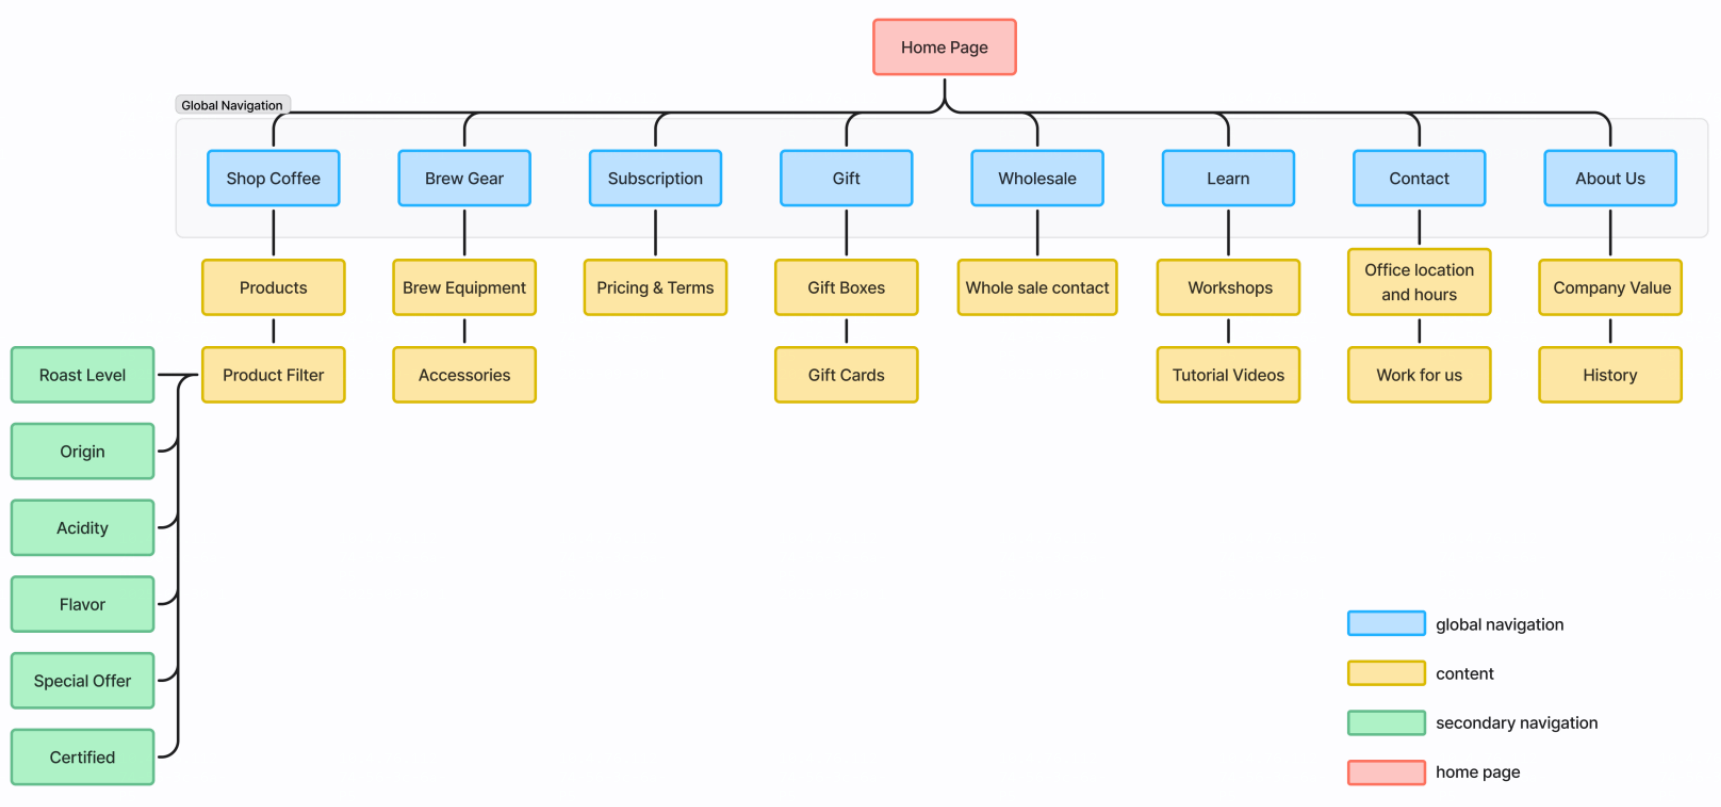
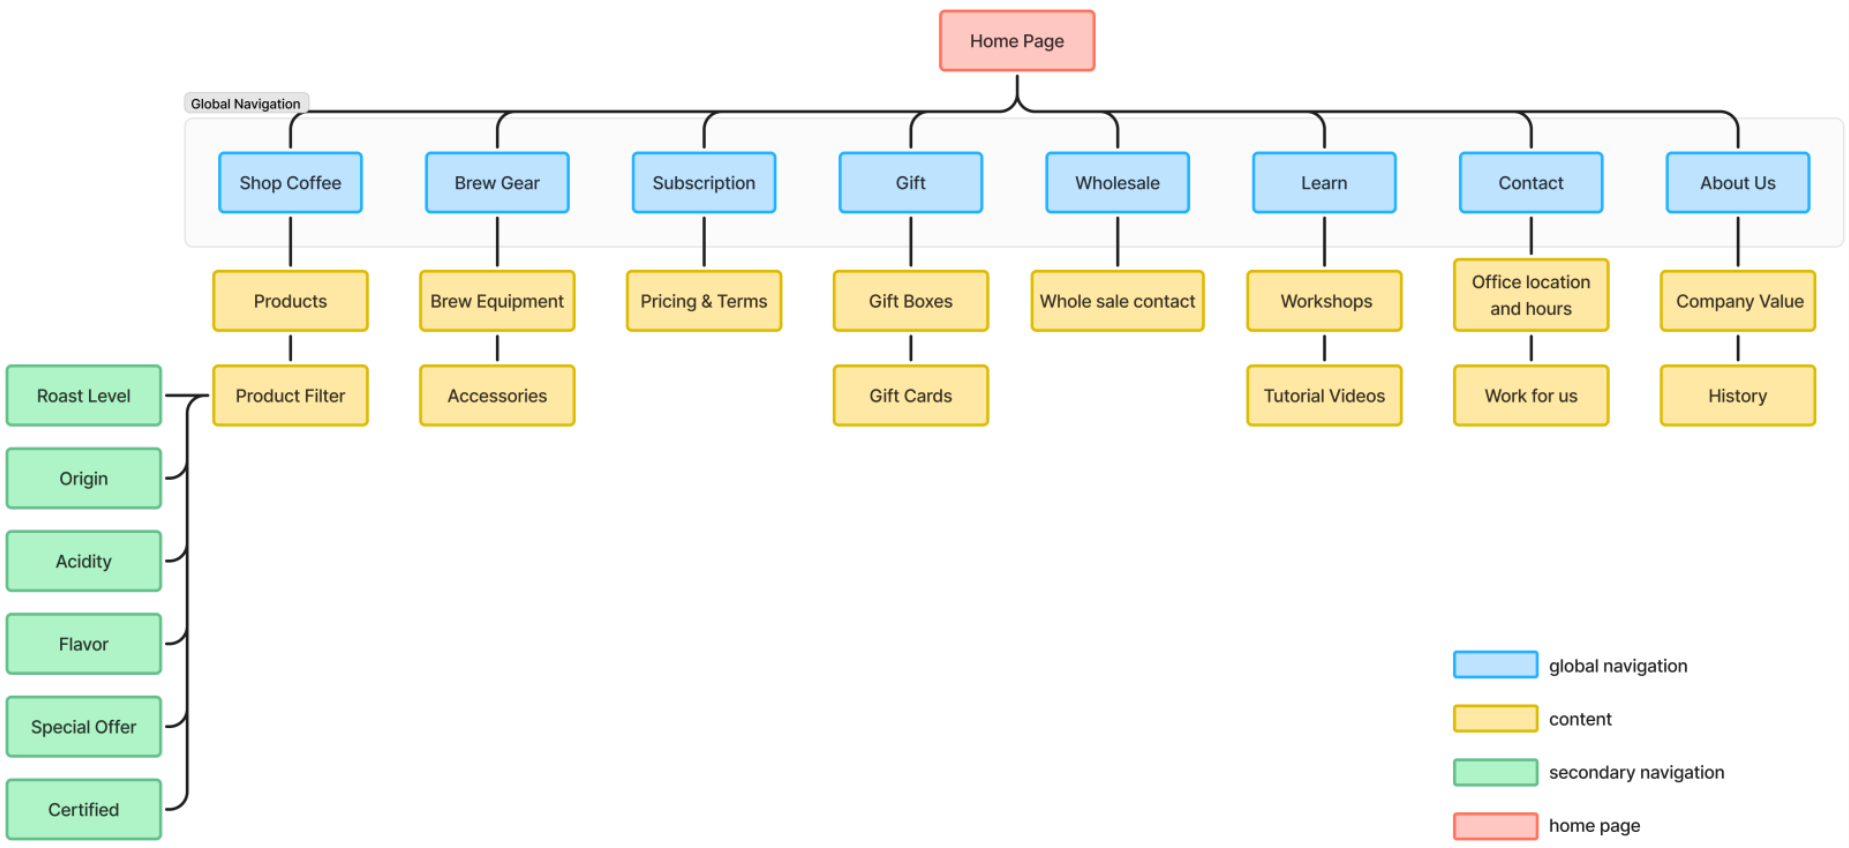
coffee done v.1.0.0

diff --git a/ux-coffeeshop.html b/ux-coffeeshop.html
@@ -3,7 +3,7 @@
 <head>
     <meta charset="UTF-8">
     <meta name="viewport" content="width=device-width, initial-scale=1.0">
-    <title>Coffee Shop IA Analysis</title>
+    <title>Coffee E-commerce Site IA Research & Usability Enhancement</title>
     <link rel="stylesheet" href="style.css">
     <link rel="preconnect" href="https://fonts.googleapis.com">
     <link rel="preconnect" href="https://fonts.gstatic.com" crossorigin>
@@ -26,8 +26,8 @@
     </header>
 
     <section class="portfolio-header" style="padding: 8rem 1.5rem 3rem">
-        <h1>Online Coffee Shop Website IA</h1>
-        <p>UX Research Project - Coffee Shop UX Best Practices Analysis</p>
+        <h1>IA Research & Usability Enhancement</h1>
+        <p>UX Research Project - Coffee E-commerce Site UX Best Practices</p>
     </section>
 
    <!-- Case Study Content -->
@@ -55,7 +55,7 @@
                 <h2 class="section-title-2">Quick Summary</h2>
                 </div>
                     <div style="flex: 1; margin-left: 2rem;">
-                        <p>This project showcases the design of the Information Architecture (IA) and a low-fidelity prototype for an online coffee shop.</p>
+                        <p>This project showcases the research and design of the Information Architecture (IA) for an online coffee shop and developed two wireframe concepts using the insights from the research.</p>
                         <p><br>The process began with a competitive analysis of existing coffee e-commerce sites to identify common design patterns and user expectations. I then conducted card sorting studies to inform the navigation, translating user mental models into a clear site structure.</p>
                         <p><br>Based on these insights into customer needs and preferences, I developed two wireframe concepts representing different navigation approaches. These concepts served as a foundation for a potential A/B test, with the feedback from both providing complementary insights.</p>
                         <p><br>The final deliverable is a user-centric, accessible website structure that enhances the customer experience for browsing coffee and related products. The project concludes with a detailed design rationale justifying all strategic IA and prototyping choices.</p>
@@ -130,6 +130,93 @@
     </div>
 
 
+    <div class="case-study-container">
+        <section class="horizontal-section" style="margin-top: 60px;">
+            <div class="content-wrapper" style="max-width: 25%;">
+                <h2 class="section-title-2">Website Schematic Redesign</h2>
+                </div>
+                    <div style="flex: 1; margin-left: 2rem;">
+                        <h3>Design Goals</h3>
+                        <p>Global >> Service driven specified global navigation</p>
+                        <p>Secondary >> Simplified product filter</p>
+                        <div class ="image-container">
+                            <img src="image/coffee/schemetics.png" alt="schemetics">
+                        </div>
+                        <h3 style="padding-top: 3rem;">Global Navigation</h3>
+                        <p>In designing the Global Navigation, I adopted a user-centric approach based on research findings to align with coffee buyers' priorities. Key and distinct services (e.g., subscriptions, wholesale) were separated into dedicated top-level navigation items to ensure precise and immediate user access.</p>
+                        <h3 style="padding-top: 3rem;">Secondary Navigation</h3>
+                        <p>For Secondary Navigation (specifically product filters), I prioritized a simplified structure. The open card sort revealed that items requiring specific coffee knowledge (like flavor notes) were grouped inconsistently. To address this challenge and maximize accessibility, I streamlined the filters to focus on universally understood attributes like roast level, flavor, and origin. Niche filters, such as preferred brew methods, were initially excluded. This decision effectively balances functionality with simplicity, making product discovery easier for both experienced and novice coffee buyers.</p>
+                    </div>
+                </div>
+            </div>
+        </section>
+    </div>
+
+    <div class="case-study-container">
+        <section class="horizontal-section" style="margin-top: 60px;">
+            <div class="content-wrapper" style="max-width: 25%;">
+                <h2 class="section-title-2">Wireframe</h2>
+                </div>
+                    <div style="flex: 1; margin-left: 2rem;">
+                        <h3>Concept 01</h3>
+                        <p>This wireframe features an expanded Global Navigation for a highly specific and targeted experience, guiding users directly to the services they need.</p>
+                            <p><br>To enhance context awareness, the filter section uses a sticky design that remains visible while scrolling. Applied filter options are kept expanded, ensuring users can always see and easily adjust their selections without losing product context.</p>
+                        <div class ="image-container">
+                            <img src="image/coffee/wireframe01.png" alt="schemetics">
+                        </div>
+                        <h3 style="padding-top: 3rem;">Concept 02</h3>
+                        <p>This concept features a simplified Global Navigation structure, mirroring patterns observed in specific competitor websites. This alternative is included to capture complementary data and feedback, providing a necessary contrast to the expanded version during validation.</p>
+                        <p><br>The design utilizes a compact, horizontally laid-out dropdown filter interface. This approach is designed to cater to the experienced coffee buyer who does not require persistent filter visibility, thereby dedicating more screen real estate to the product grid for enhanced browsing.</p>
+                        <div class ="image-container">
+                            <img src="image/coffee/wireframe02.png" alt="schemetics">
+                        </div>
+                    </div>
+                </div>
+            </div>
+        </section>
+    </div>
+
+
+    <div class="case-study-container">
+        <section class="horizontal-section" style="margin-top: 60px;">
+            <div class="content-wrapper" style="max-width: 25%;">
+                <h2 class="section-title-2">Rationale</h2>
+                </div>
+                    <div style="flex: 1; margin-left: 2rem;">
+                        <h3>Target Users</h3>
+                        <p><br><span class="highlight-2">Concept 1: </span>Aims to accommodate a broader range of users, including those less familiar with coffee, by offering constant access to filters
+                            and detailed navigation options for more intuitive interaction.</p>
+                        <p><br><span class="highlight-2">Concept 2:</span> Targets more experienced users who are comfortable with coffee-related terms and prefer a cleaner browsing space over
+                            continuous filter visibility.</p>
+                        <h3 style="padding-top: 3rem;">Shared Design Choices</h3>
+                        <p><br><span class="highlight-2">Global Navigation: </span> A user-centric design process was considered to craft an intuitive global navigation structure. The navigation aims to guide users directly to specific products or services, reflecting their needs and expectations.</p>
+                        <p><br><span class="highlight-2">Hierarchical Structure: </span> A two-layer navigation system was implemented, organizing content into broad primary categories and detailed
+                            secondary categories. This structure supports efficient information retrieval while balancing breadth and depth.
+                            </p>
+                        <p><br><span class="highlight-2">Simplified Secondary Filters: </span>The organization of filter options, based on the open card sort study, ensures frequently used filters are
+                            easily accessible while avoiding overwhelming users with excessive options. </p>
+                        <p><br><span class="highlight-2">Labeling Clarity: </span>Emphasizing user-friendly, descriptive labels for both global and secondary navigation items. These labels are informed
+                            by card sorting insights, ensuring they resonate with user expectations. </p>
+                        <p><br><span class="highlight-2">Purpose-Driven Search:</span> Search functionality is product-focused, catering to users who know what they are looking for. This decision
+                            aligns with observed user behaviors and avoids complicating the experience with unrelated or overly broad search results.</p>
+
+                        <h3 style="padding-top: 3rem;">Differences</h3>
+                        <div class ="image-container">
+                            <img src="image/coffee/difference.png" alt="difference">
+                        </div>
+
+                        <h3 style="padding-top: 3rem;">Trade-offs</h3>
+                        <div class ="image-container">
+                            <img src="image/coffee/pros cons 1.png" alt="pros cons 1">
+                        </div>
+                        <div class ="image-container">
+                            <img src="image/coffee/pros cons 2.png" alt="pros cons 2">
+                        </div>
+                    </div>
+                </div>
+            </div>
+        </section>
+    </div>
     
     <!-- Contact Section -->
     <section id="contact" class="contact">

diff --git a/ux-design.html b/ux-design.html
@@ -225,6 +225,36 @@
                 </div>
             </a> -->
 
+
+             <!-- UX Research Project - Coffee E-commerce Site UX Best Practices -->
+             <a href="ux-coffeeshop.html" class="portfolio-item-link">
+                <div class="portfolio-item">
+                    <div class="portfolio-image">
+                        <img src="image/coffee/coffee-thumbnail.png" alt="coffee-thumbnail">
+                    </div>
+                    <div class="portfolio-content">
+                        <span class="project-category">UX RESEARCH</span>
+                        <h2>IA Research & Usability Enhancement for Coffee E-commerce Experience</h2>
+                        <p class="project-description">Research into the best practices of online coffee e-commerce experiences and redesigned the information architecture to optimize the user experience issues discovered in the user testing. </p>
+                        
+                        <!-- 
+                        <div class="design-impact">
+                            <div class="impact-metrics">
+                                <div class="metric-item">
+                                    <span class="index-metric-value">↑WIP</span>
+                                    <span class="metric-label">WIP</span>
+                                </div>
+                                <div class="metric-item">
+                                    <span class="index-metric-value">↑WIP</span>
+                                    <span class="metric-label">WIP</span>
+                                </div>
+                                -->
+                            </div>
+                        </div>
+                    </div>
+                </div>
+            </a>
+
         </section>
     </main>
 

diff --git a/ux-service-design.html b/ux-service-design.html
@@ -299,10 +299,11 @@
                 <p><span class="highlight-2">Outcome Map</span> - Map out the desired outcomes of all the stages and parties involved and compare to the current service experience to identify gaps. </p>
             </div>
             <div style="flex: 1; margin-left: 2rem;">
-                                     <div class="image-container" style="margin: 0rem 0;">
+                <div class="image-container" style="margin: 0rem 0;">
                      <img src="image/Service Design/service outcome map.png" alt="Elections Ontario app service outcome map" class="image-container" style="border-radius: 0px; width: 100%; height: auto;" data-hover-image="image/Service Design/outcome map focus.png" 
-                     data-hover-description="We identified these key experience gaps that the current design needs improvement on, which then became our core focus. ""
-                 </div>
+                     data-hover-description="We identified these key experience gaps that the current design needs improvement on, which then became our core focus. "
+                </div>
+            </div>
             </div>
         </section>
     </section>
